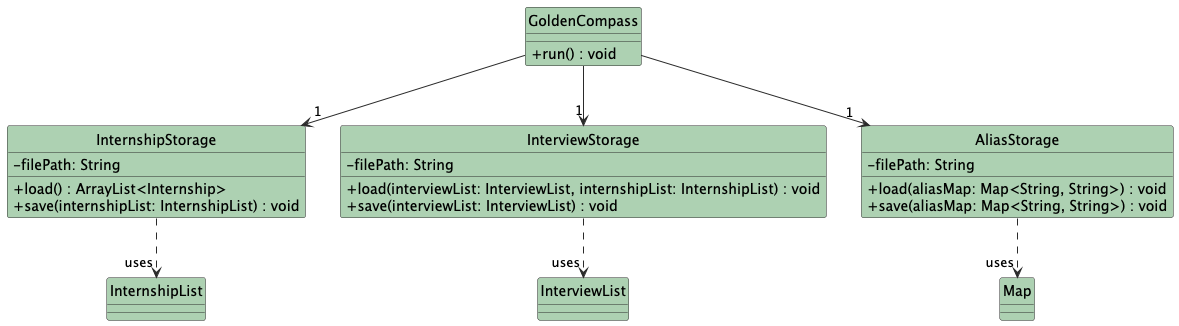
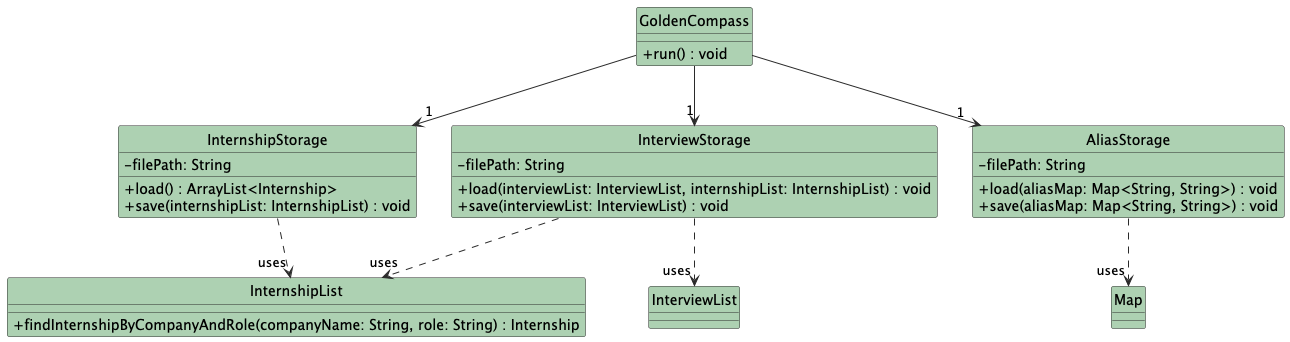
updated DG and UG for storage

diff --git a/docs/DeveloperGuide.md b/docs/DeveloperGuide.md
@@ -1474,11 +1474,11 @@ The storage system is initialized inside the `GoldenCompass` main class.
 When the application starts, data is loaded in a strict sequence to resolve dependencies:
 1. `InternshipStorage.load()` is called first. It reads `data/internships.txt` line by line and splits the string using the `" | "` delimiter.
 2. If a third column (status) is present, the parser uses a `switch` statement on the parsed string (`OFFER`, `REJECTED`, or `PENDING`).
-  - `case "OFFER"`: Calls `loadedInternship.markAsOffer()`.
-  - `case "REJECTED"`: Calls `loadedInternship.markAsRejected()`.
-  - `case "PENDING"`: Leaves the internship in its default initialization state.
-  - `default`: Logs a warning for an unknown status to handle potential file corruption.
-3. `InterviewStorage.load()` is called next. Since interviews are tied to specific internships, this class parses `data/interviews.txt`, extracts the company name, and uses `internshipList.findInternshipByCompany(companyName)` to link the newly loaded `Interview` back to its parent `Internship` object in memory.
+- `case "OFFER"`: Calls `loadedInternship.markAsOffer()`.
+- `case "REJECTED"`: Calls `loadedInternship.markAsRejected()`.
+- `case "PENDING"`: Leaves the internship in its default initialization state.
+- `default`: Logs a warning for an unknown status to handle potential file corruption.
+3. `InterviewStorage.load()` is called next. Since interviews are tied to specific internships, this class parses `data/interviews.txt`, extracts the company name and role, and uses the composite key search `internshipList.findInternshipByCompanyAndRole(companyName, role)` to accurately link the newly loaded `Interview` back to its exact parent `Internship` object in memory.
 4. `AliasStorage.load()` reads `data/aliases.txt` and populates the `Executor`'s internal alias map.
 
 **Saving Data (Execution Loop):**
@@ -1495,14 +1495,15 @@ Format: `TITLE | COMPANY_NAME | STATUS`
 * Example: `Frontend Intern | Grab | PENDING`
 
 **2. Interviews (`data/interviews.txt`)**
-Format: `COMPANY_NAME | ISO_LOCAL_DATE_TIME`
-* Example: `Google | 2026-03-25T14:30:00`
-* Example: `Grab | null` *(If an interview is created but no date is set yet)*
+Format: `COMPANY_NAME | ROLE | ISO_LOCAL_DATE_TIME`
+* Example: `Google | Software Engineer | 2026-03-25T14:30:00`
+* Example: `Grab | Data Analyst | null` *(If an interview is created but no date is set yet)*
 
 **3. Aliases (`data/aliases.txt`)**
 Format: `ALIAS_TRIGGER | ORIGINAL_COMMAND`
 * Example: `ls | list`
 * Example: `mk | mark`
+
 The following class diagram shows the main structural components involved in the Storage feature:
 
 ![Storage Class Diagram](diagrams/StorageClassDiagram.png)
@@ -1520,6 +1521,7 @@ Instead of user input validation, the Storage component implements data validati
 | **Length Check** | Verifies a line splits into the correct number of parts via the `" | "` delimiter. | Skips the line and logs a warning if `parts.length` is invalid. |
 | **Empty Value Check** | Ensures parsed titles and company names are not empty strings. | Skips the line to prevent creating ghost internships. |
 | **Date Format Check** | Verifies interview dates conform to `LocalDateTime` ISO formatting. | Catches `DateTimeParseException`, logs a warning, but still loads the interview without a date. |
+| **Null Date Check** | Verifies if the saved date string is explicitly `"null"`. | Skips date parsing entirely and safely initializes the `Interview` without a date to be handled by `nullsLast` sorting. |
 
 #### Defensive Programming Features
 
@@ -1542,37 +1544,38 @@ logger.log(Level.WARNING, "Skipped corrupted line: " + line);
 **Aspect: Saving Strategy**
 
 * **Alternative 1 (Current Implementation): Eager Saving (Save on every loop)**
-  * **Description:** Inside `GoldenCompass.run()`, the application saves data to all three text files after every single command execution.
-  * **Pros:** Maximum data safety. If the user unexpectedly closes the terminal, experiences a power outage, or encounters a fatal runtime exception, no data is lost because the disk is always synchronized with the RAM.
-  * **Cons:** Higher disk I/O overhead, as the application rewrites the entire file even if a command didn't actually change any data (e.g., after a `list` command).
+    * **Description:** Inside `GoldenCompass.run()`, the application saves data to all three text files after every single command execution.
+    * **Pros:** Maximum data safety. If the user unexpectedly closes the terminal, experiences a power outage, or encounters a fatal runtime exception, no data is lost because the disk is always synchronized with the RAM.
+    * **Cons:** Higher disk I/O overhead, as the application rewrites the entire file even if a command didn't actually change any data (e.g., after a `list` command).
 
 * **Alternative 2: Lazy Saving (Save on exit)**
-  * **Description:** The `save()` methods are only called once when the user types the `bye` command.
-  * **Pros:** Better performance due to minimized file I/O operations.
-  * **Cons:** High risk of data loss. If the application terminates abnormally, all progress made during that session is wiped out.
+    * **Description:** The `save()` methods are only called once when the user types the `bye` command.
+    * **Pros:** Better performance due to minimized file I/O operations.
+    * **Cons:** High risk of data loss. If the application terminates abnormally, all progress made during that session is wiped out.
 
 **Aspect: Relational Data Mapping (Interviews to Internships)**
 
-* **Alternative 1 (Current Implementation): Foreign Key Reference by Company Name**
-  * **Description:** `InterviewStorage` saves only the Company Name and the Date. Upon loading, it searches the previously loaded `InternshipList` for an exact company name match (`findInternshipByCompany`) to rebuild the object reference in memory.
-  * **Pros:** Prevents data duplication. Keeps the `interviews.txt` file clean and concise, adhering to the Single Source of Truth principle.
-  * **Cons:** Requires `InternshipList` to be fully loaded *before* `InterviewList` can be loaded.
+* **Alternative 1 (Current Implementation): Composite Key Reference (Company Name + Role)**
+    * **Description:** `InterviewStorage` saves both the Company Name and Role alongside the interview date. Upon loading, it searches the previously loaded `InternshipList` for an exact match of *both* fields (`findInternshipByCompanyAndRole`) to rebuild the object reference in memory.
+    * **Pros:** Prevents data duplication while accurately mapping interviews even when a user applies to multiple distinct roles at the exact same company. Keeps `interviews.txt` clean and adheres to the Single Source of Truth principle.
+    * **Cons:** Requires `InternshipList` to be fully loaded *before* `InterviewList` can be loaded.
 
 * **Alternative 2: Deep Copy Storage**
-  * **Description:** `InterviewStorage` saves all details of the parent `Internship` alongside the interview date.
-  * **Pros:** Easier to parse since `InterviewStorage` wouldn't need access to `InternshipList`.
-  * **Cons:** Violates the DRY (Don't Repeat Yourself) principle. If an internship status is updated, it would have to be updated in both files.
+    * **Description:** `InterviewStorage` saves all details of the parent `Internship` alongside the interview date.
+    * **Pros:** Easier to parse since `InterviewStorage` wouldn't need access to `InternshipList`.
+    * **Cons:** Violates the DRY (Don't Repeat Yourself) principle. If an internship status is updated, it would have to be updated in both files.
 
 #### Test Coverage
 
 The storage components are covered by unit tests to ensure file I/O reliability:
 
-| Test Case | Description | Expected Outcome |
-|-----------|-------------|------------------|
-| `save_validList_writesCorrectly` | Save a list with one item, then read the file manually | File contains the exact formatted string |
-| `load_missingFile_returnsEmptyList` | Attempt to load when `data/` does not exist | Returns empty list, creates directory |
-| `load_corruptedFile_skipsLines` | Load a file with missing `|` delimiters | Skips bad lines, loads valid lines |
-| `load_invalidDate_handlesGracefully` | Load interview with date `abc` | Interview loaded, date remains null |
+| Test Case                            | Description                                                 | Expected Outcome |
+|--------------------------------------|-------------------------------------------------------------|------------------|
+| `save_validList_writesCorrectly`     | Save a list with one item, then read the file manually      | File contains the exact formatted string |
+| `save_multipleRoles_mapsCorrectly`   | Save two interviews for different roles at the same company | Both interviews are independently linked to the correct roles |
+| `load_missingFile_returnsEmptyList`  | Attempt to load when `data/` does not exist                 | Returns empty list, creates directory |
+| `load_corruptedFile_skipsLines` | Load a file with missing delimiters                         | Skips bad lines, loads valid lines |
+| `load_invalidDate_handlesGracefully` | Load interview with date `abc`                              | Interview loaded, date remains null |
 
 ## Product scope
 ### Target user profile

diff --git a/docs/UserGuide.md b/docs/UserGuide.md
@@ -389,11 +389,12 @@ Your internship applications are saved in the following format:
 
 **2. Interview Data (`data/interviews.txt`)**
 Your scheduled interviews are saved in the following format:
-`COMPANY_NAME | DATE_AND_TIME`
+`COMPANY_NAME | ROLE | DATE_AND_TIME`
 
-* **Date Format:** The date and time are saved in the standard ISO-8601 format (e.g., `2026-08-07T16:00`), where the `T` acts as a standard separator between the calendar date and the clock time.
+* **Date Format:** The date and time are saved in the standard ISO-8601 format (e.g., `2026-08-07T16:00`), where the `T` acts as a standard separator between the calendar date and the clock time. If an interview has no date set yet, it will be safely saved as `null` and displayed as "No date set" in the app.
+* **Automatic Sorting:** The application automatically sorts your interviews chronologically. The interview happening the soonest will always be stored and displayed at the top of the list. Any interviews marked as `null` ("No date set") are automatically sorted to the very bottom.
 * **Updating Dates:** If you use the `update-date` command to reschedule an interview, the new date and time will overwrite the old one on the exact same line. It will not create a new or duplicate entry.
-    * *Example:* If your file shows `Grab | 2026-08-07T16:00` and you postpone the interview to the next day, the line updates directly to `Grab | 2026-08-08T16:00`.
+    * *Example:* If your file shows `Grab | Software Engineer | 2026-08-07T16:00` and you postpone the interview to the next day, the line updates directly to `Grab | Software Engineer | 2026-08-08T16:00`.
 * **Deleting Data:** If you cancel an interview using the `delete-interview` command, that specific interview entry is completely erased from the text file.
 
 **3. Alias Data (`data/aliases.txt`)**
@@ -404,8 +405,7 @@ Your custom command shortcuts are saved in the following format:
     * *Example:* If you have `ls | list` and you add `l | list`, both will be saved as separate lines, allowing you to use either `ls` or `l` to view your internships.
 * **Deleting Data:** If you remove a shortcut using the `remove-alias` command, that specific alias mapping is completely erased from the text file.
 
-> ⚠ **Caution:** While you can open and read these text files, it is highly recommended not to manually edit them. If you do, please ensure you strictly follow the exact formatting above. Incorrect formatting, missing data, or missing ` | ` separators will cause the application to skip loading those specific lines to prevent crashing.
-
+> **Caution:** While you can open and read these text files, it is highly recommended not to manually edit them. If you do, please ensure you strictly follow the exact formatting above. Incorrect formatting, missing data, or missing ` | ` separators will cause the application to skip loading those specific lines to prevent crashing.
 
 ## FAQ
 
